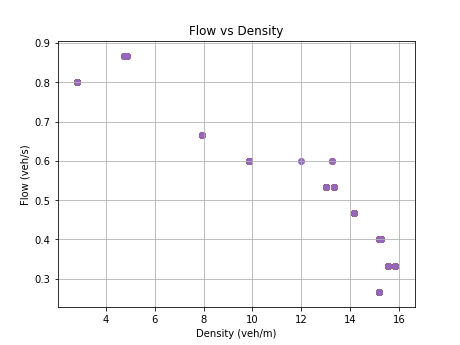
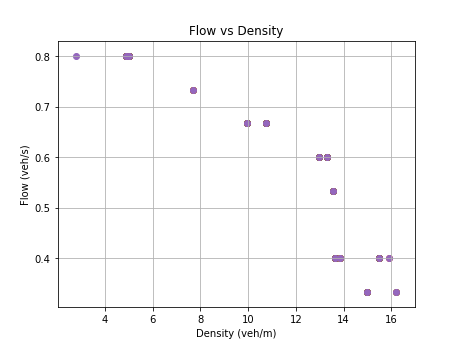
Add numpy random seed

diff --git a/environment.py b/environment.py
@@ -13,6 +13,7 @@ from car import Car
 
 matplotlib.use('Agg')
 matplotlib.use('PS')
+np.random.seed(175175175)
 
 
 TOTAL_SIMULATIONS = 15
